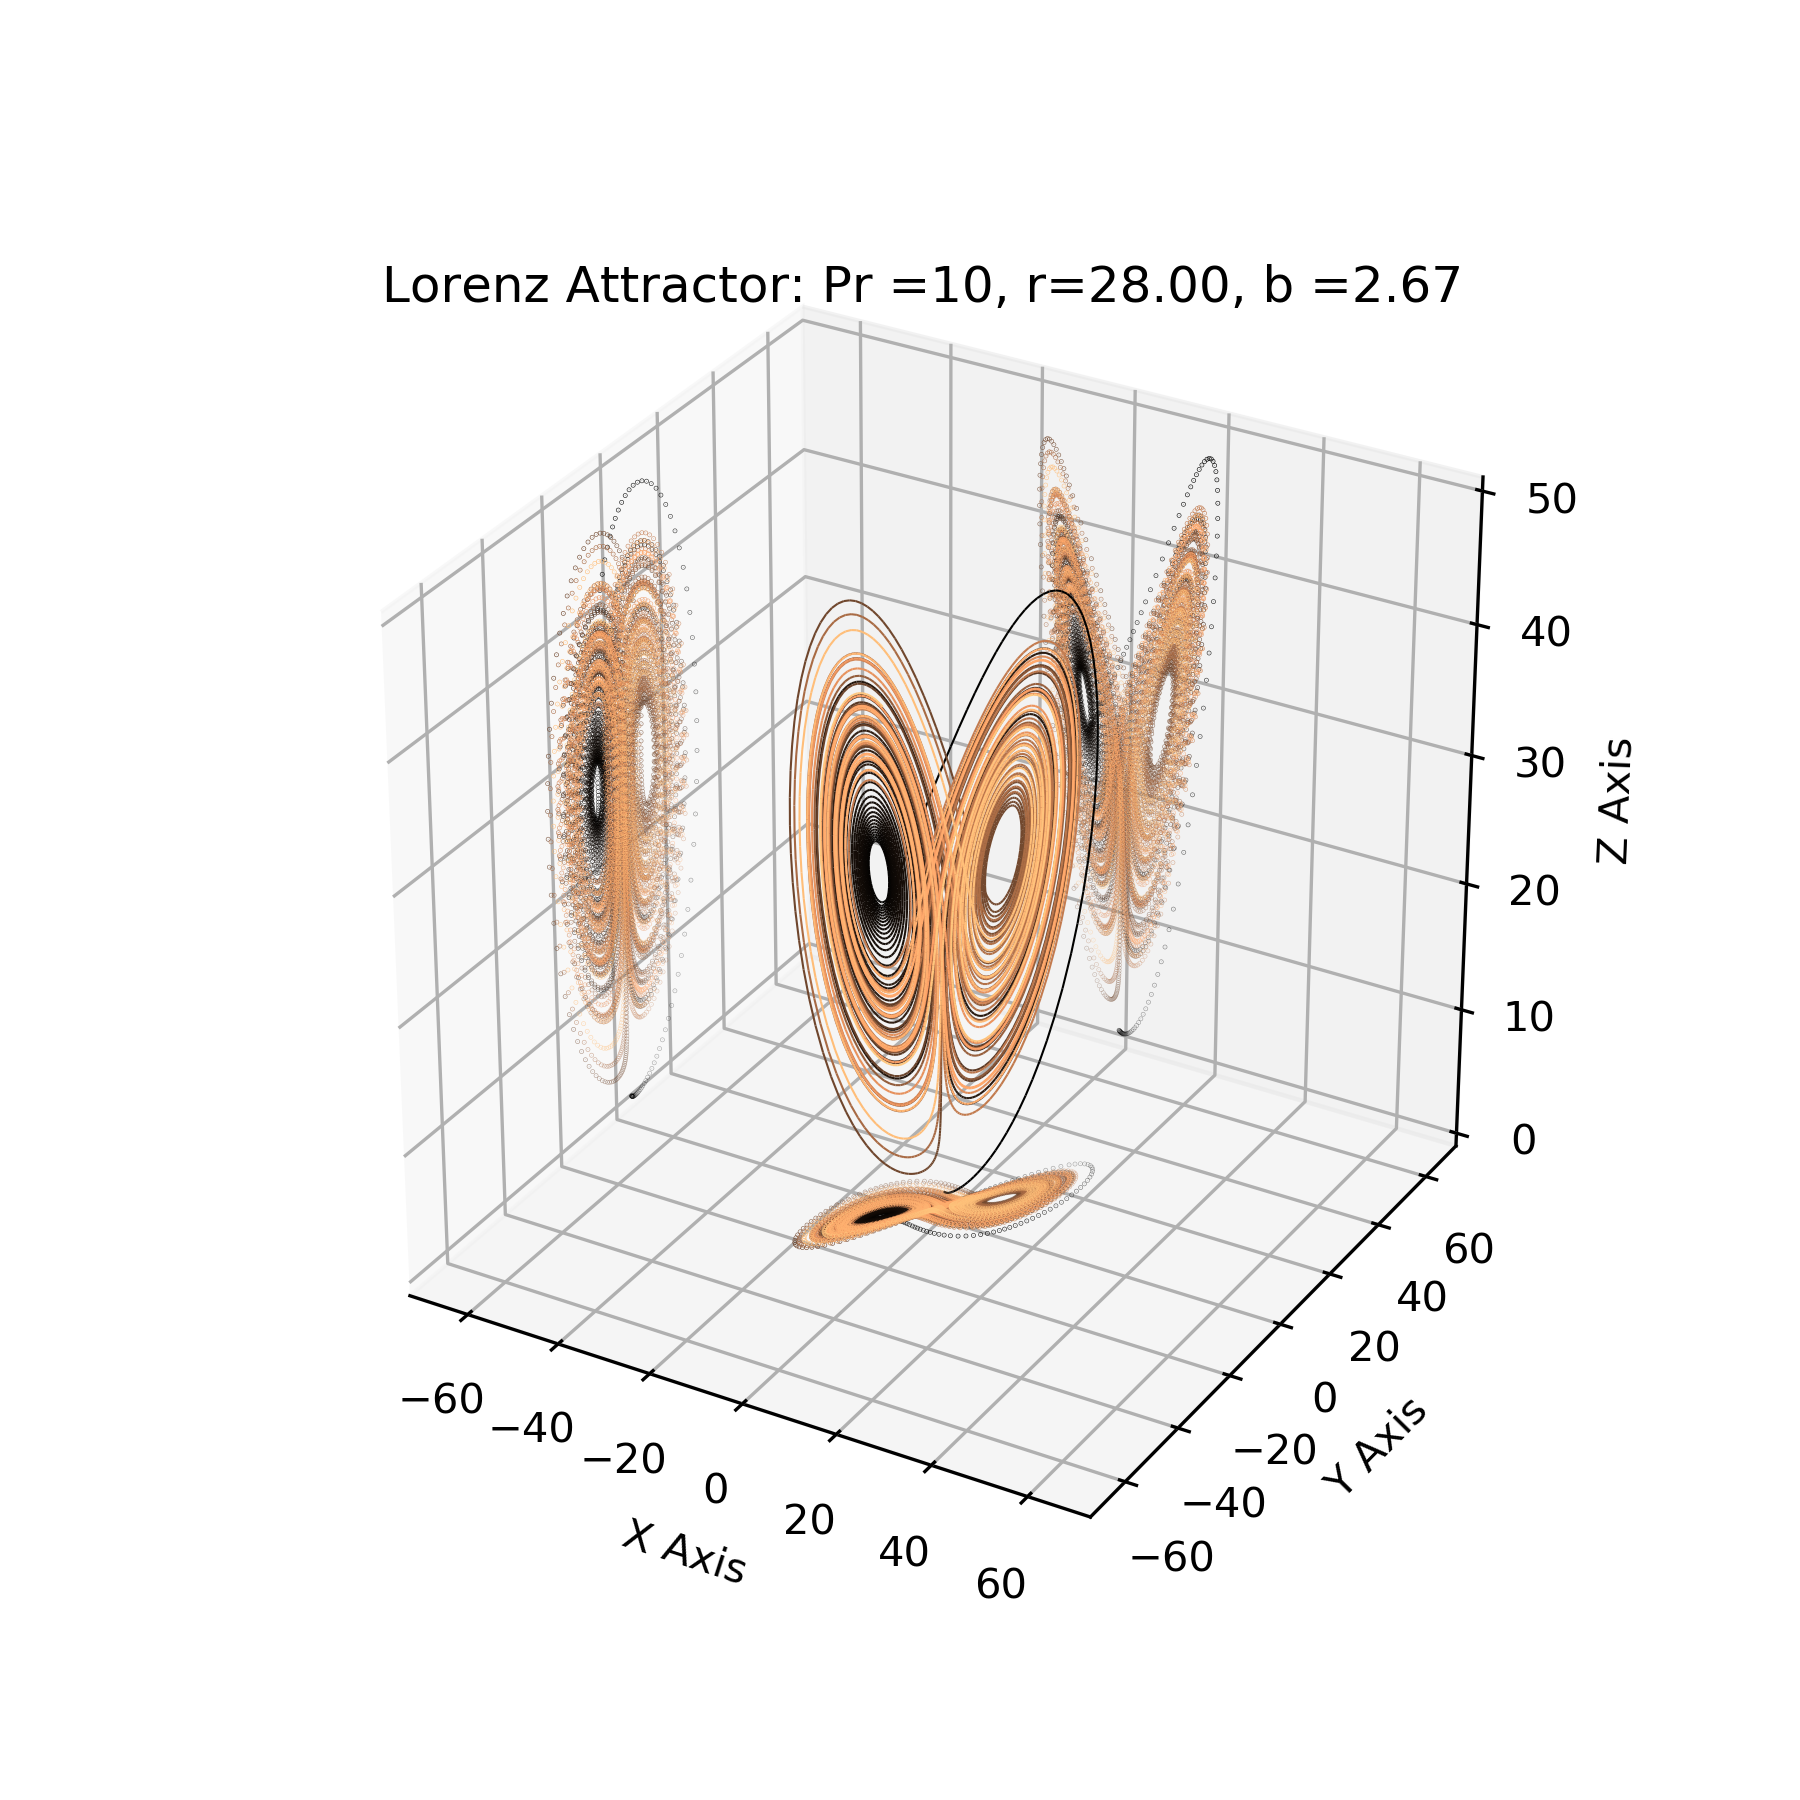
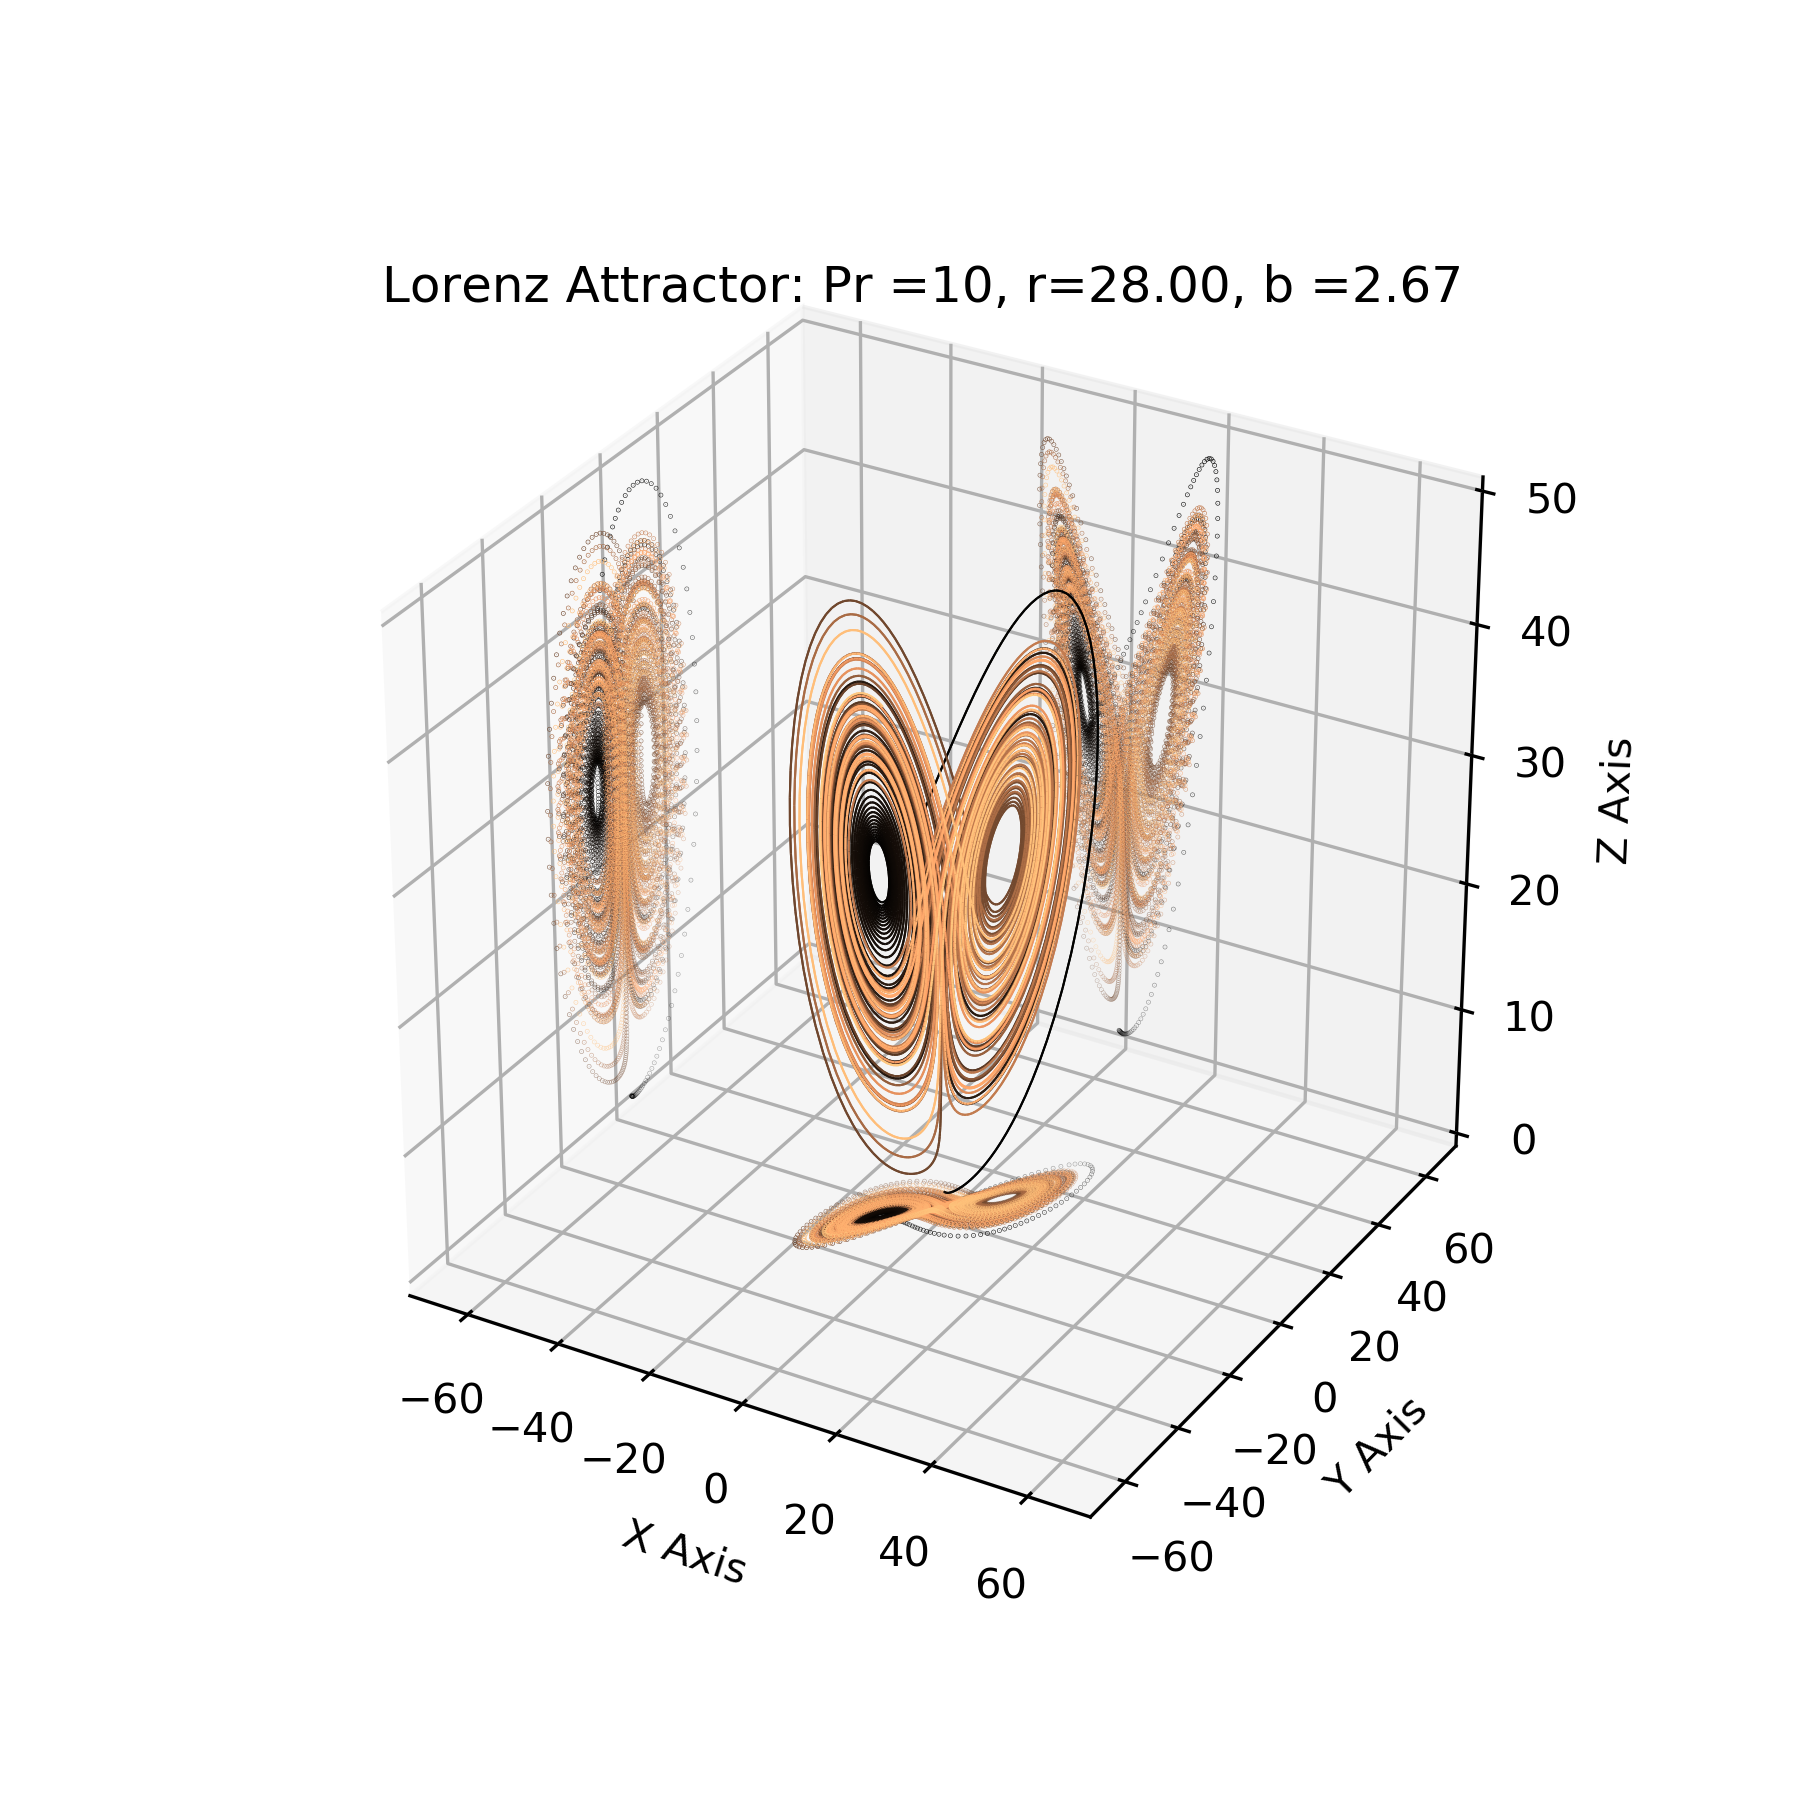
[collab]

Changed region(s): [[0.4356, 0.3733, 0.5911, 0.6222], [0.56, 0.3422, 0.5911, 0.4667]]

diff --git a/sheet5_ex1.py b/sheet5_ex1.py
@@ -116,14 +116,16 @@ def plot_phase_diagram(x, y, z, args, xlim = [-np.pi, np.pi], ylim = [-1,1], zli
     ax.set_ylim([-70, 70])
     ax.set_zlim([0, 50])
     ax.set_title('Lorenz Attractor: Pr ={:.0f}, r={:.2f}, b ={:.2f}'.format(args[0], args[1], args[2]))
+    ax.add_collection(colorline(x, y, z, cmap='copper', linewidth=0.5))
 
     if animate: 
         plt.axis('off')
-        import matplotlib.animation as animation
-        ani = animation.FuncAnimation(fig, anifunc, 36, interval=1000, fargs=[ax, x, y, z, cmap])
-        ani.save("sheet5_ex1_phase_diagramm.mp4")
+        for angle in range(360):
+            ax.view_init(elev=30*np.sin(2*np.pi*angle/360), azim=angle)
+            plt.savefig("videoframes/frame{}.png".format(angle))
+        import sheet5_video
+        sheet5_video.generate_video("videoframes")
     else:
-        colorline(x, y, z, cmap=cmap, linewidth=0.5)
         ax.scatter(x, z, zdir='y', c=np.linspace(0.0, 1.0, len(x)), cmap=cmap, s=0.02, zs=70)
         ax.scatter(y, z, zdir='x', c=np.linspace(0.0, 1.0, len(x)), cmap=cmap, s=0.02, zs=-70)
         ax.scatter(x, y, zdir='z', c=np.linspace(0.0, 1.0, len(x)), cmap=cmap, s=0.02, zs=0)
@@ -168,5 +170,5 @@ t_span = [0., 100]
 
 sol, path = record(lorenz, u0, t_span, epsilon=epsilon, args=args)
 
-#plot_phase_diagram(sol.y[0], sol.y[1], sol.y[2], args)
+plot_phase_diagram(sol.y[0], sol.y[1], sol.y[2], args)
 plot_phase_diagram(sol.y[0], sol.y[1], sol.y[2], args, animate=True)

diff --git a/sheet5_video.py b/sheet5_video.py
@@ -1,0 +1,32 @@
+import os
+
+import matplotlib.pyplot as plt
+import numpy as np
+
+
+def generate_frames(folder):
+    os.makedirs(folder, exist_ok=True)
+    for i, phi in enumerate(np.linspace(0, 2 * np.pi, 100)):
+        plt.close()
+        plt.plot([0, np.cos(phi)], [0, np.sin(phi)])
+        plt.xlim(-1, 1)
+        plt.ylim(-1, 1)
+        plt.savefig(os.path.join(folder, f"frame{i}.png"))
+
+
+def generate_video(folder):
+    os.system(" ".join([
+        "ffmpeg",
+        "-r 25",
+        f'-i "{os.path.join(folder, "frame%d.png")}"',
+        "-c:v libx264",
+        "-pix_fmt yuv420p",
+        "-an",
+        f"{folder}.mp4",
+    ]))
+
+
+if __name__ == "__main__":
+
+    #generate_frames("test")
+    generate_video("test")
